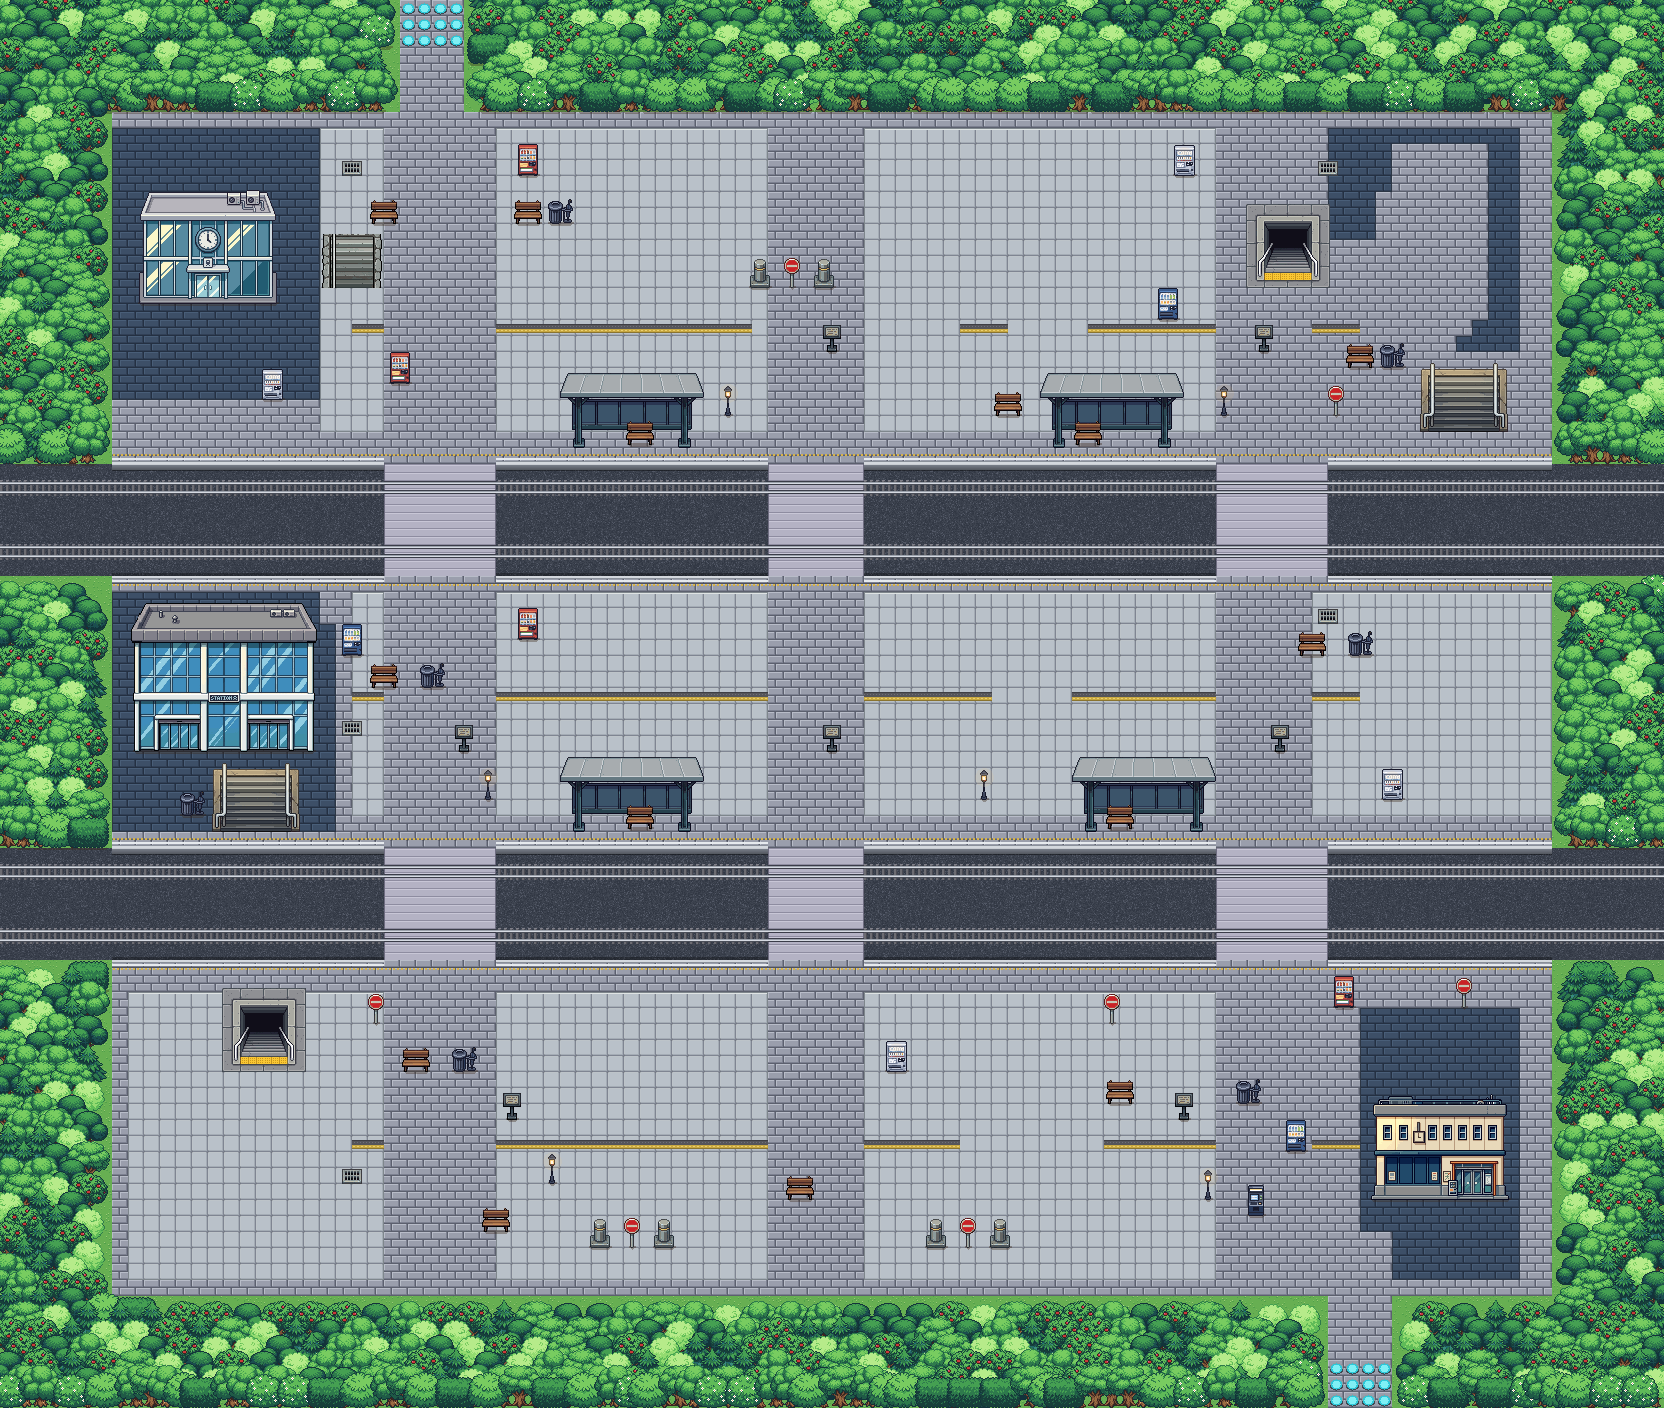
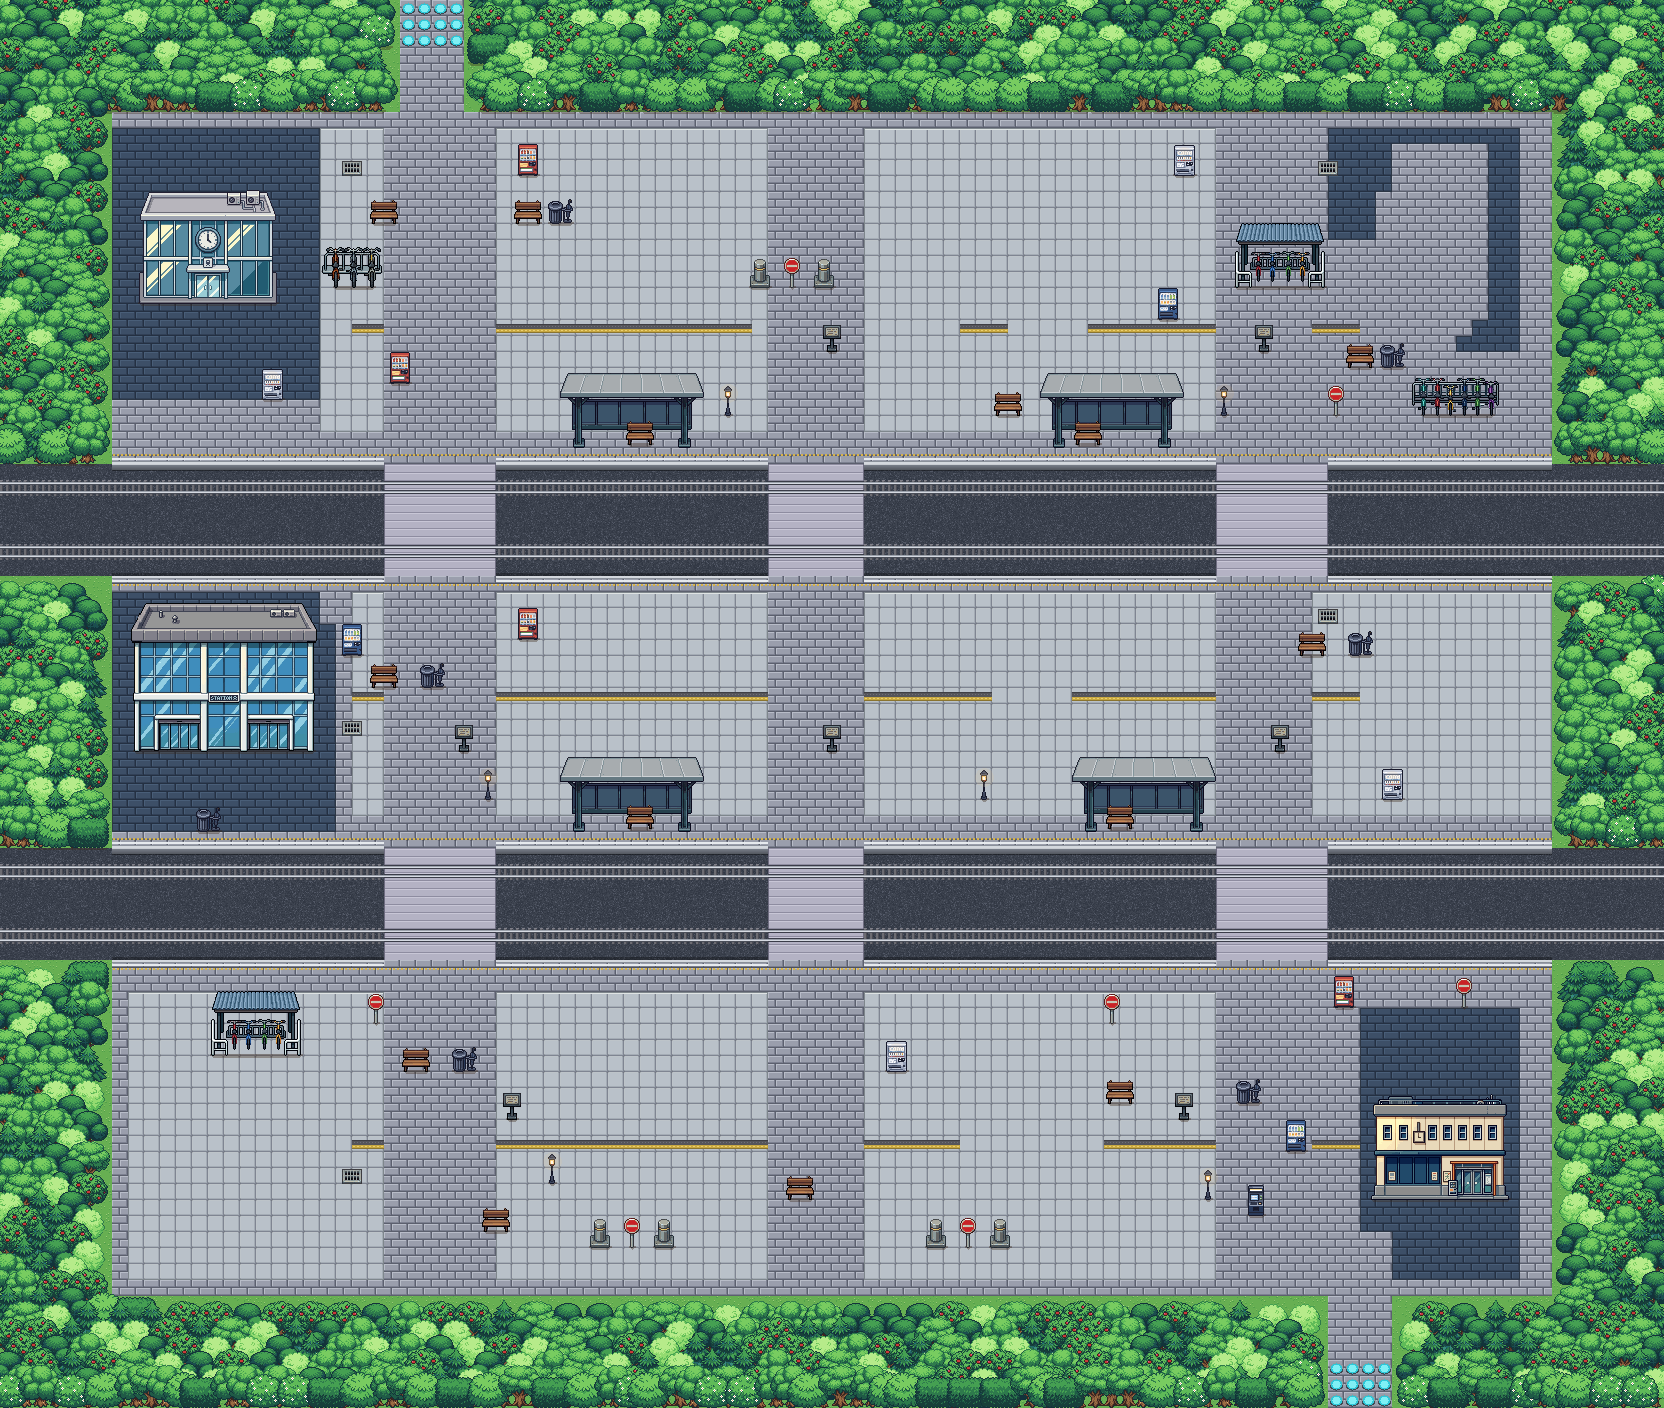
Karte 38: Treppen der Vorlage durch Fahrradabstellplaetze ersetzt (PixelLab k38_fahrrad_*)
Claude-Session: https://claude.ai/code/session_01SaoYHKhnro4LFcPJqjaPsq

diff --git a/tools/karte38_objekte.py b/tools/karte38_objekte.py
@@ -3,7 +3,7 @@
   python3 tools/karte38_objekte.py && python3 tools/karte38_bauen.py
 
 Grosse Objekte zuerst: drei Bahnhofsgebaeude (neu mit PixelLab: k38_bahnhof_glas, _glas_b, _beige - Nutzer: grosse
-Gebaeude gern neu erzeugen), Wartehaeuschen auf den Bahnsteigen (k38_unterstand), Treppenabgaenge (k38_treppe); dann
+Gebaeude gern neu erzeugen), Wartehaeuschen auf den Bahnsteigen (k38_unterstand), Fahrradabstellplaetze (k38_fahrrad_*, Nutzer: statt Treppen); dann
 Automaten, Baenke (unter den Daechern und frei), Muelleimer, Laternen, Infostaender, Verbotsschilder, Poller und
 Bodengitter nach der Vorlage (Karte 18 + k38_klein), sparsam und ohne Reihen; zuletzt der Baumguertel am Rand.
 Pixelgenaue Pruefung (2 px), kein Bodenwall, Teleporter frei, nichts auf Gleisen und Bahnsteigkanten.
@@ -31,9 +31,10 @@ AUTOMAT = {'anim': 'leuchten', 'licht_box': [3, 3, 17, 18], 'licht_r': 7}
 GEBAEUDE = [('bahnhof_glas_c/00', 144, 14), ('bahnhof_glas_b/01', 160, 42), ('bahnhof_beige/00', 1376, 70)]
 # Wartehaeuschen (Mitte x Vorlagen-px, Fusszeile) - Bahnsteige oben und Mitte wie in der Vorlage
 UNTERSTAENDE = [(560, 23), (1055, 23), (575, 47), (1084, 47)]
-TREPPEN = [('treppe/01', 76 * 16 + 8, 13), ('treppe_breit/00', 87 * 16 + 8, 22), ('treppe/01', 12 * 16 + 8, 61),
-           ('treppe_schmal/02', 17 * 16 + 16, 13),
-           ('treppe_breit/00', 12 * 16, 47)]   # (sprite, Mitte x px, Fusszeile); vor dem mittleren Bahnhof wie in der Vorlage, linke Tuer frei
+# Fahrradabstellplaetze (Nutzer: die 'Treppen' der Vorlage sind Fahrradstaender) - PixelLab k38_fahrrad_*:
+# (sprite, linke Kachel x, Fusszeile) am Raster, Breite = kleinster Kachelblock (Regel 1b)
+FAHRRAD = [('fahrrad_breit/00', 73, 13), ('fahrrad_breit/01', 84, 21), ('fahrrad_breit/00', 9, 61),
+           ('fahrrad_schmal/00', 16, 13)]
 # Poller-Paare mit Verbotsschild genau auf ihrer Achse (Vorlage): (Kachel links, Kachel rechts, Fusszeile)
 POLLER = [(43, 47, 13), (54, 58, 73), (33, 37, 73)]
 # (sprite, Kachel x, Fusszeile, Optionen) - Vorlagenkacheln
@@ -158,12 +159,12 @@ def main():
         # Bank unter dem Dach vor der Glaswand (gewollt im Unterstand, nach ihm gezeichnet)
         setze('klein/09', cx + OFF - 8 + (-16 if i % 2 else 16), (fy + P) * T + T - 4, {'nur_kontakt': True}, pruefen=False,
               sortier=o['y'] + o['fuss'] + 1)
-    for (name, cx, fy) in TREPPEN:
-        if not os.path.exists(os.path.join(OBJ, name + '.png')):
-            print('fehlt:', name); continue
-        if not any(setze(name, cx + OFF, (fy + P + d) * T + T - 1, {'liegend': True, 'schattenlos': True}, art='gebaeude')
-                   for d in (0, 1, 2, -1)):
-            print('Treppe nicht gesetzt:', name, cx, fy)
+    for (name, x0, fy) in FAHRRAD:
+        bw = Image.open(os.path.join(OBJ, name + '.png')).getbbox()
+        wt = math.ceil((bw[2] - bw[0]) / T)
+        cx = (x0 + P) * T + wt * T / 2.0
+        if not any(setze(name, cx, (fy + P + d) * T + T - 1, {}, art='gebaeude') for d in (0, 1, -1)):
+            print('Fahrradstaender nicht gesetzt:', name, x0, fy)
     for (xa, xb, fy) in POLLER:                                    # Paar + Schild exakt auf der Achse
         ca, cb = (xa + P) * T + T / 2.0, (xb + P) * T + T / 2.0
         fyp = (fy + P) * T + T - 1

diff --git a/tools/pixellab_objekte.py b/tools/pixellab_objekte.py
@@ -2139,6 +2139,17 @@ OBJEKTGRUPPEN_K21 = {   # Karte 21 (Digi-Egg Valley), Stil wie Karte 20 / Karte 
         'concrete steps fill the whole opening and get darker towards the bottom, stone border around it, one white '
         'metal handrail on the left edge, no gaps, flat top-down view, ' + FR14,
     ]},
+    'k38_fahrrad_breit': {'size': 96, 'freie_farben': True, 'items': [
+        'wide covered bicycle parking area: a row of five parked bicycles side by side in a grey metal bike rack, seen from '
+        'the front and slightly above, about twice as wide as tall, short white metal railings at both ends, ' + FR14,
+        'wide bicycle parking rack with six bicycles standing next to each other, grey steel stand, seen from the front '
+        'and slightly above, much wider than tall, ' + FR14,
+    ]},
+    'k38_fahrrad_schmal': {'size': 64, 'freie_farben': True, 'items': [
+        'small bicycle parking rack with three parked bicycles side by side, grey metal stand, seen from the front and '
+        'slightly above, ' + FR14,
+        'compact grey metal bike rack with two bicycles locked to it, seen from the front and slightly above, ' + FR14,
+    ]},
     'k38_klein': {'size': 32, 'freie_farben': True, 'items': [
         'short grey metal platform bollard, ' + FR14,
         'round red no-entry traffic sign with a white bar on a thin grey pole, ' + FR14,
